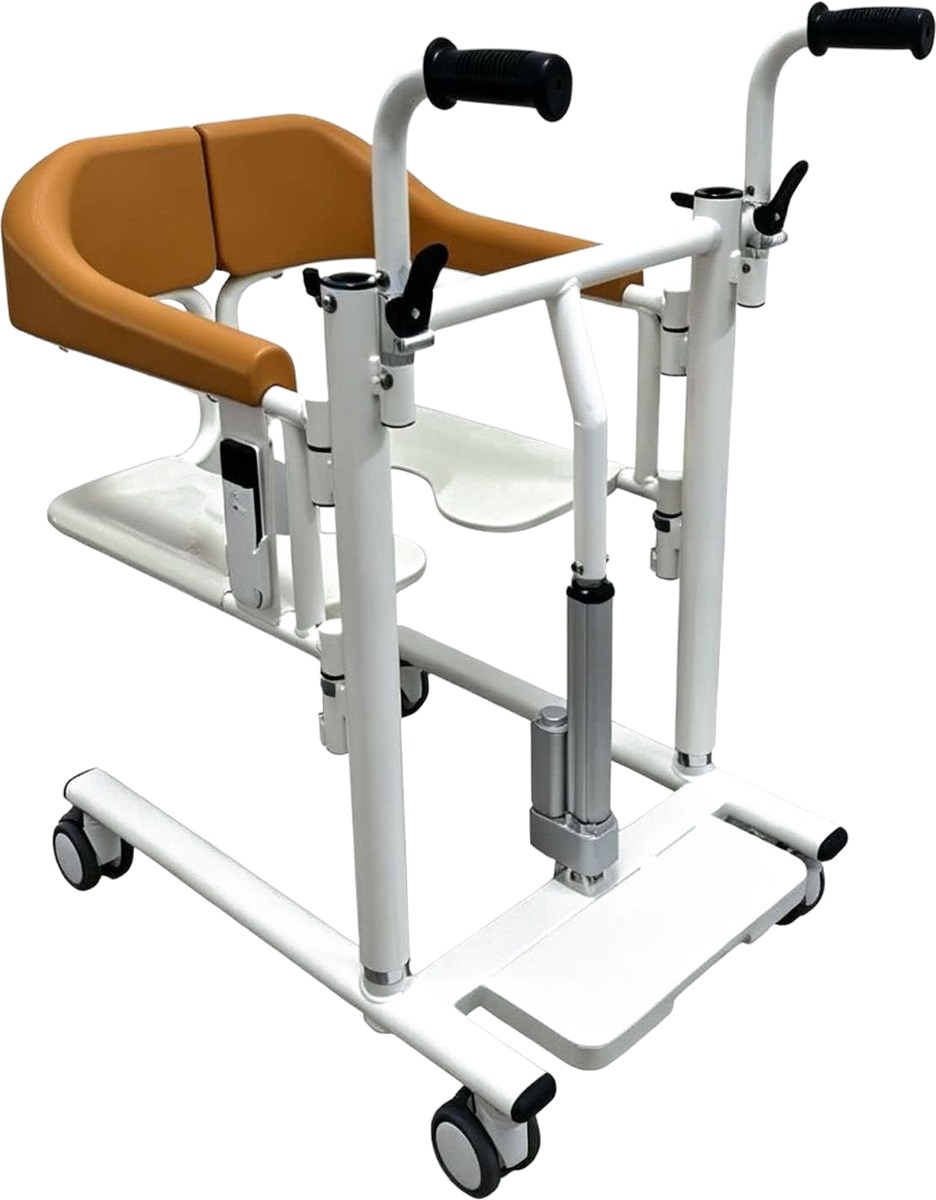
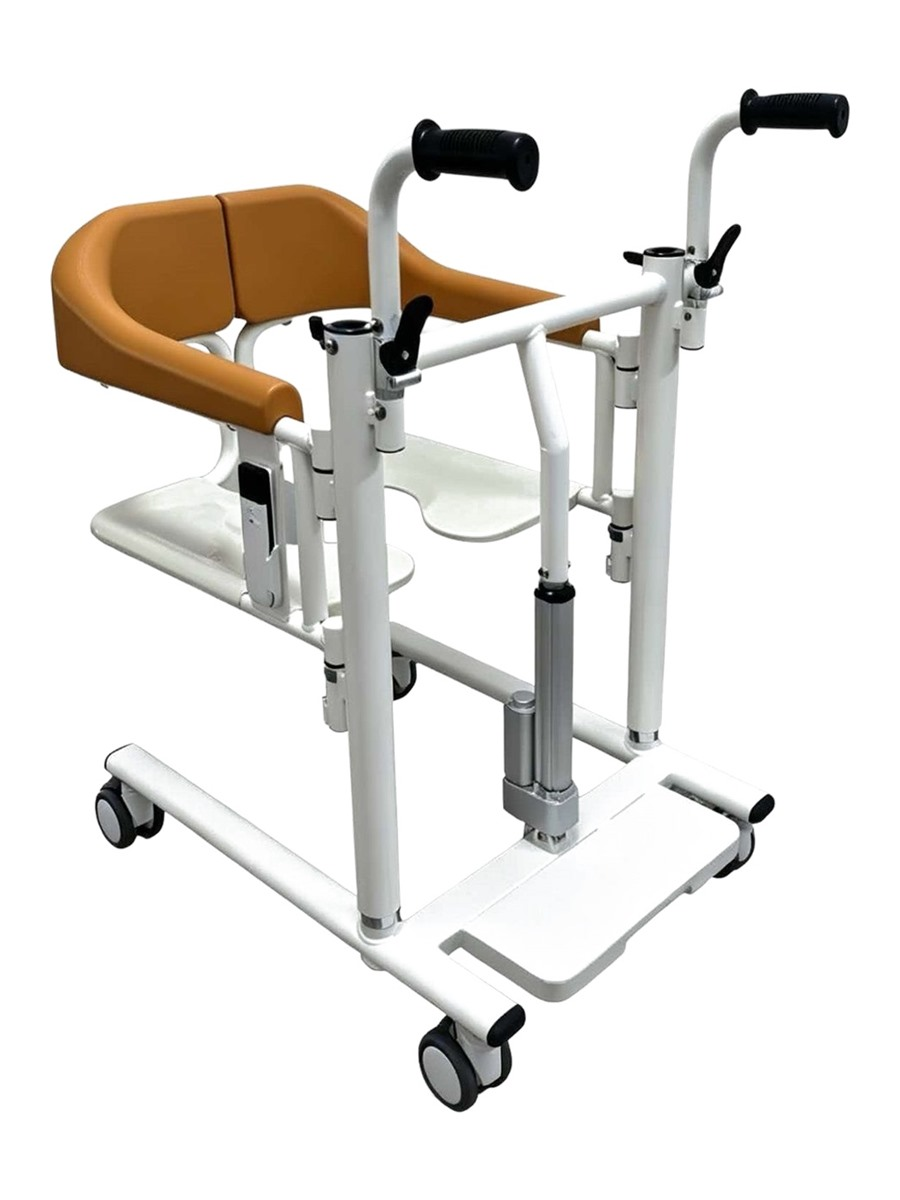
Standardize product card images: uniform 900x1200 canvas with centered padding
All 3 product images resized to identical 900x1200 (3:4) canvas with product centered and 50px whitespace padding. Simplified card HTML - removed flex/padding, using width:100% object-fit:cover.

Changed region(s): [[0.0, 0.0, 1.0, 1.0]]

diff --git a/solutions/transfer-chair.html b/solutions/transfer-chair.html
@@ -162,8 +162,8 @@
       <div class="grid grid--3 grid--gap-lg reveal-stagger tc-products">
         <!-- Manual -->
         <div style="border-radius:var(--radius-md);overflow:hidden;border:1px solid var(--color-border);background:var(--color-surface);">
-          <div style="aspect-ratio:3/4;overflow:hidden;background:#fff;display:flex;align-items:center;justify-content:center;padding:var(--space-6);">
-            <img loading="lazy" src="../assets/images/products/transfer/Manual patient lift.jpg" alt="Manual patient lift with hand-crank height adjustment" style="max-width:100%;max-height:100%;width:auto;height:auto;object-fit:contain;">
+          <div style="aspect-ratio:3/4;overflow:hidden;background:#fff;">
+            <img loading="lazy" src="../assets/images/products/transfer/Manual patient lift.jpg" alt="Manual patient lift with hand-crank height adjustment" style="width:100%;height:100%;object-fit:cover;">
           </div>
           <div style="padding:var(--space-6);">
             <h3 style="font-family:'Sora',sans-serif;font-size:var(--text-lg);font-weight:700;margin-bottom:var(--space-1);">Manual Patient Lift</h3>
@@ -178,8 +178,8 @@
         </div>
         <!-- Hydraulic -->
         <div style="border-radius:var(--radius-md);overflow:hidden;border:1px solid var(--color-border);background:var(--color-surface);">
-          <div style="aspect-ratio:3/4;overflow:hidden;background:#fff;display:flex;align-items:center;justify-content:center;padding:var(--space-6);">
-            <img loading="lazy" src="../assets/images/products/transfer/Hydraulic Patient Lift.jpg" alt="Hydraulic patient lift with foot pedal" style="max-width:100%;max-height:100%;width:auto;height:auto;object-fit:contain;">
+          <div style="aspect-ratio:3/4;overflow:hidden;background:#fff;">
+            <img loading="lazy" src="../assets/images/products/transfer/Hydraulic Patient Lift.jpg" alt="Hydraulic patient lift with foot pedal" style="width:100%;height:100%;object-fit:cover;">
           </div>
           <div style="padding:var(--space-6);">
             <h3 style="font-family:'Sora',sans-serif;font-size:var(--text-lg);font-weight:700;margin-bottom:var(--space-1);">Hydraulic Patient Lift</h3>
@@ -194,8 +194,8 @@
         </div>
         <!-- Electric -->
         <div style="border-radius:var(--radius-md);overflow:hidden;border:1px solid var(--color-border);background:var(--color-surface);">
-          <div style="aspect-ratio:3/4;overflow:hidden;background:#fff;display:flex;align-items:center;justify-content:center;padding:var(--space-6);">
-            <img loading="lazy" src="../assets/images/products/transfer/Electric patient lift.jpg" alt="Electric patient lift with wireless remote control" style="max-width:100%;max-height:100%;width:auto;height:auto;object-fit:contain;">
+          <div style="aspect-ratio:3/4;overflow:hidden;background:#fff;">
+            <img loading="lazy" src="../assets/images/products/transfer/Electric patient lift.jpg" alt="Electric patient lift with wireless remote control" style="width:100%;height:100%;object-fit:cover;">
           </div>
           <div style="padding:var(--space-6);">
             <h3 style="font-family:'Sora',sans-serif;font-size:var(--text-lg);font-weight:700;margin-bottom:var(--space-1);">Electric Patient Lift</h3>
